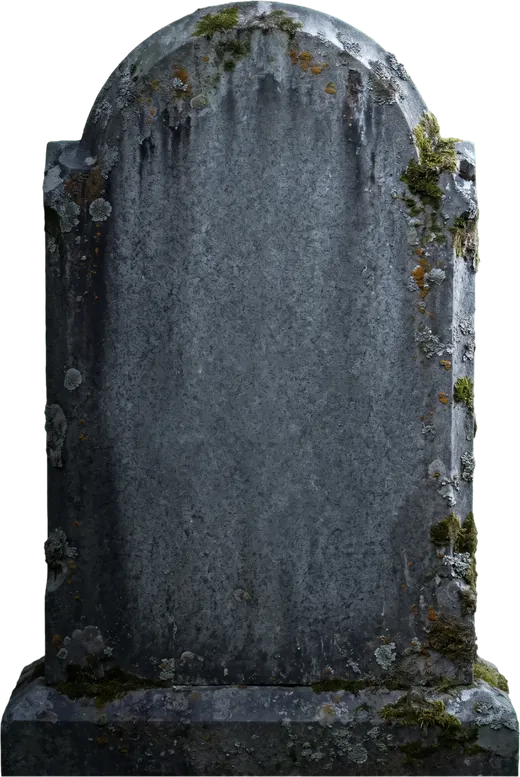
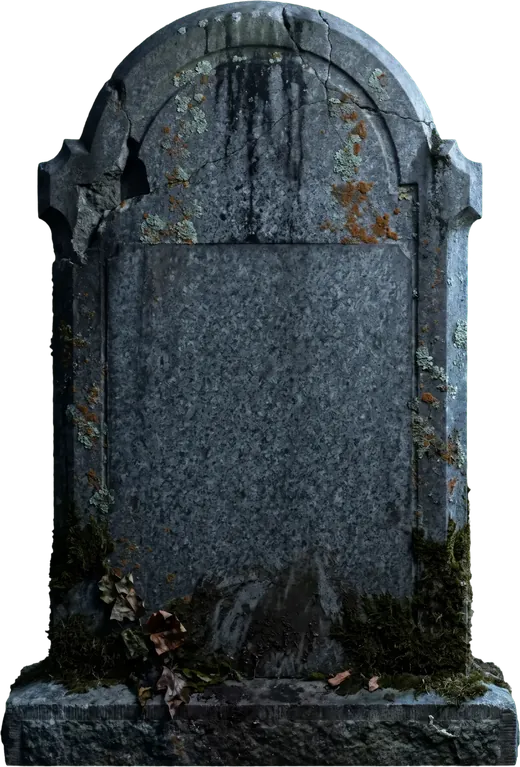
Spec: Requirement 19 and task 30; new headstone, heap, hand, bones and clod images

diff --git a/.kiro/specs/tombstone/requirements.md b/.kiro/specs/tombstone/requirements.md
@@ -258,3 +258,15 @@ Acceptance check: a session with Tombstone installed shows no extra metered requ
 - R18.3 WHEN the headstone has reached its final height THE SYSTEM SHALL show it standing in a visible heap of loose earth around its base (bigger the higher it rose), with a few clumps lying on the grass nearby.
 - R18.4 ONLY after the stone has stopped rising and the earth has settled (about 0.4 s) THE SYSTEM SHALL show STOP and, as the last beat, crack the headstone in two: the crack runs from the top of the arch to the base, the two halves part by a few pixels and tilt slightly apart with nothing drawn in the gap (no line, no stroke, no glow; the scene shows through), with the R16.3 flash and the optional sound at that moment. The carved figure stays readable on the halves.
 - R18.5 THE effect SHALL be drawn with inline SVG, CSS and the page script only (no new images, no external requests), the page SHALL stay under 750 KB, and with `prefers-reduced-motion` the final state (heap of earth, split stone) is shown at once; without JavaScript the noscript scene shows the split stone in its heap. R15.2 to R15.5, R16 and R17 still hold.
+
+### Requirement 19: Photographed earth, a skeletal hand and old bones
+
+**User Story:** As a Costume Contest judge, I want the earth, the falling clods, a skeletal hand clawing out of the grave and the unearthed bones to be real photographs lit like the scene, so that the whole first screen reads as one frightening photograph and the hand shows the agent trying to climb out until the breaker buries it.
+
+#### Acceptance Criteria
+
+- R19.1 THE heap of R18.3 SHALL be the cut-out photograph `src/tombstone/data/scene/heap.webp` (its hollow middle behind the headstone's foot, the rest in front of it), scaled from about 20 percent to full size with the rise so that at the final height it is about 1.6 times the stone's width; the falling and scattered clods of R18.2 and R18.3 SHALL be the photographs in `src/tombstone/data/scene/clods/`, in varied sizes and rotations. The drawn SVG heap and clumps are removed; the drawn soil fissures stay, behind the heap.
+- R19.2 FROM the second rise step THE SYSTEM SHALL raise the photographed skeletal hand `hand_reach.webp` out of the ground to the left of the headstone (its foot hidden by the ground line and the heap, about 45 percent of the stone's final height), climbing in small jerks with each step with a little falling earth. AT the split of R18.4 the hand SHALL go limp and sink back into the earth within about 0.8 s and disappear.
+- R19.3 WHEN the heap has reached its full size THE SYSTEM SHALL let the photographed bones `bones.webp` appear on the grass to the right of the heap (fade in with a puff of soil dust), about 60 percent of the stone's width. At rest neither the hand nor the bones are visible (R18.1 still holds).
+- R19.4 THE hand, bones, heap and clods SHALL be toned to the scene's cold moonlight (darker, less saturated, slightly blue, highlights from the upper right) so they do not look pasted in. The headstone image `headstone.webp` has been replaced by a new photograph; its blank face is the sunken panel, and the carved figure of R17.3 SHALL sit centred in that panel.
+- R19.5 EACH image SHALL be embedded once as a data URI and reused (for example as a CSS custom property or a shared class), including the two halves of the split headstone; the page SHALL stay one file with no external requests and under 1.1 MB. Reduced motion shows the final state at once (hand already sunk, bones and heap shown); noscript shows the final scene. R15 to R18 still hold.

diff --git a/.kiro/specs/tombstone/tasks.md b/.kiro/specs/tombstone/tasks.md
@@ -420,3 +420,19 @@ The package skeleton (pyproject.toml, empty modules, tests/ and tests/fixtures/)
   - [x] 29.7 A real heap and natural soil cracks
     - Browser check by Claude on 2026-11-26 after 29.6 (frames at 1280 px): the stone now ends at the ground, good. Two things still read as fake: (1) the heap is a thin strip, a few pixels tall, so the stone does not look like it stands in loose earth as Dima asked; (2) the soil cracks are a row of identical small zigzags lined up under the ground line, like stitches. Make the heap a real mound of loose earth in front of the stone's foot: at the final height about 22 to 30 percent of the visible stone height tall and about 1.6 times the stone's width, irregular silhouette with lumps and a few small stones, darker at the bottom, lit from the upper right, growing with each rise step; a few loose clumps scattered further out on the grass. Replace the zigzags with 3 to 5 irregular dark fissures of different length and angle radiating from the stone across the ground, fading at their ends, drawn on the ground behind the heap. Same at 375 px, reduced motion and noscript. Update the tests that check heap size and the cracks.
     - _Requirements: R18.1, R18.3_
+
+- [ ] 30. Photographed earth, a skeletal hand and old bones
+  - Approved by Dima on 2026-11-26 (more frightening, realistic, skeletal hands, no blood or flesh because the rules let the sponsor remove "inappropriate" material). Dima generated the images with Nano Banana Pro; Claude chroma-keyed them into `src/tombstone/data/scene/` (headstone.webp replaced, heap.webp, hand_reach.webp, bones.webp, clods/clod_0..7.webp). Rollback tag `rollback-before-1127` exists.
+  - _Requirements: R19.1, R19.2, R19.3, R19.4, R19.5_
+
+  - [ ] 30.1 Photo heap and clods, single embedding
+    - Replace the SVG heap and clumps with the photographs per R19.1, embed every image once per R19.5 (also fix the headstone being embedded twice for the halves), keep the clip at the ground line and the layering of 29.6.
+    - _Requirements: R19.1, R19.5_
+
+  - [ ] 30.2 The hand and the bones
+    - The rising hand and its sinking at the split (R19.2), the bones appearing with the full heap (R19.3), moonlight toning (R19.4), the carved figure centred in the new headstone's sunken panel, reduced motion and noscript.
+    - _Requirements: R19.2, R19.3, R19.4_
+
+  - [ ] 30.3 Tests
+    - Each image file is embedded exactly once; no SVG heap or clump elements remain; the hand and bones are hidden at rest, the hand appears from the second step and is scheduled to sink at the split, the bones appear with the full heap; the page is under 1.1 MB with no external requests; existing R15 to R18 tests still pass (update only those the change breaks).
+    - _Requirements: R19.1, R19.2, R19.3, R19.4, R19.5_
